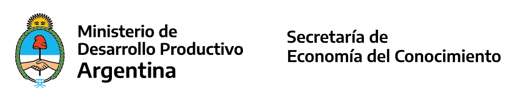
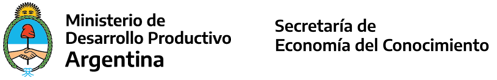
20-06

diff --git a/index.html b/index.html
@@ -110,7 +110,7 @@
       <div class="container">
 
         <header class="section-header">
-          <h3>About Us</h3>
+          <h3>Nosotros</h3>
           <p>Lorem ipsum dolor sit amet, consectetur adipiscing elit, sed do eiusmod tempor incididunt ut labore et dolore magna aliqua.</p>
         </header>
 

diff --git a/css/style.css b/css/style.css
@@ -158,7 +158,7 @@ h6 {
 
 #header .logo img {
   padding: 0;
-  max-height: 60px;
+  max-height: 50px;
 }
 
 .main-pages {
